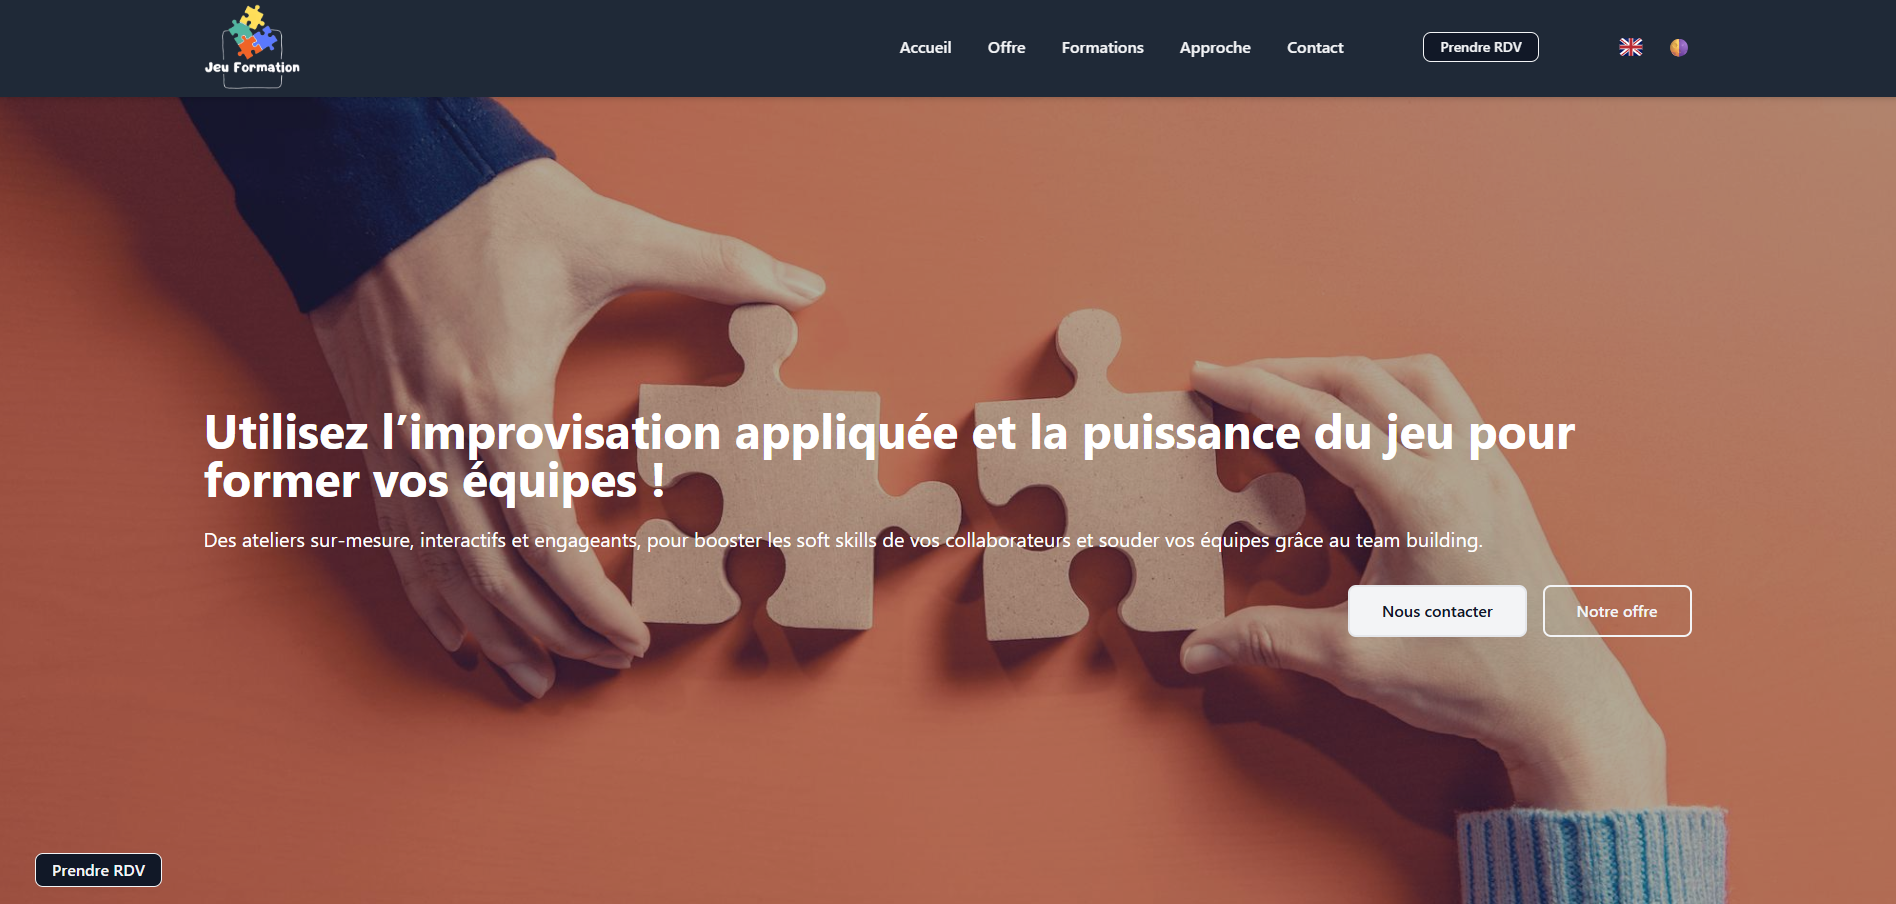
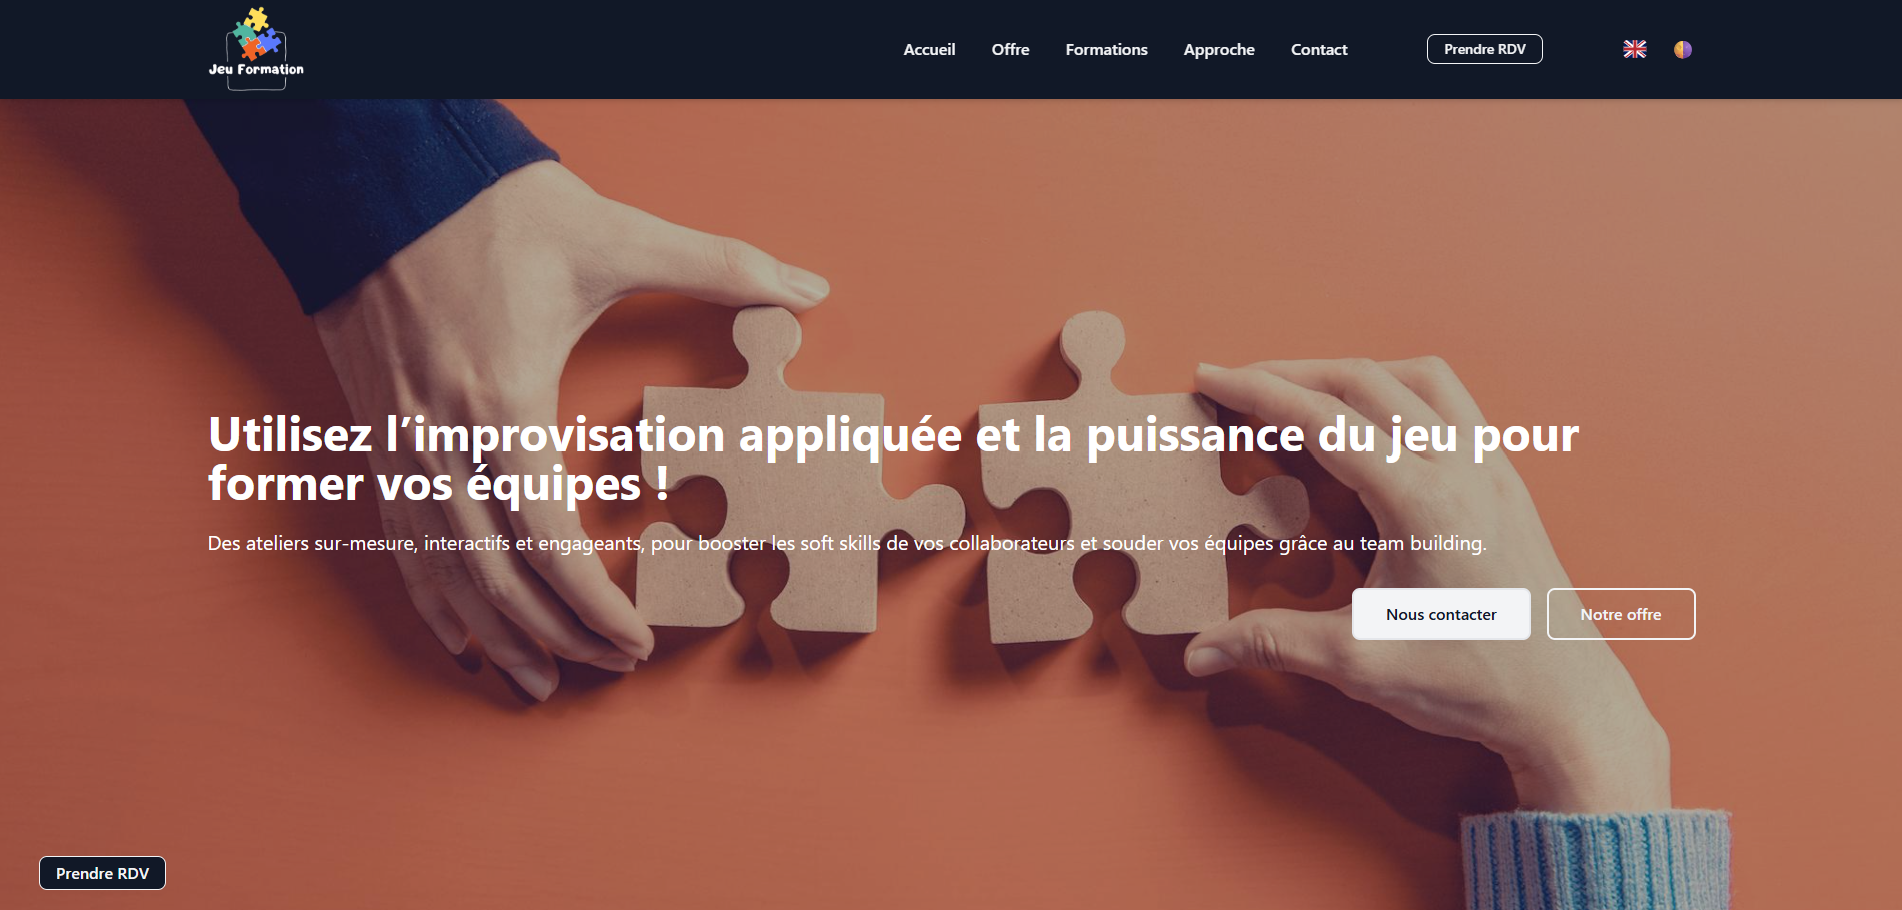
Petits ajustements : nav + img + fixed-btn + star

diff --git a/index-live.html b/index-live.html
@@ -20,7 +20,7 @@
       content="Développeur Web, Développeur Front-end, Programmation côté client, Gestion de projet web, Freelance, Robin Borreil, Accueil"
     />
     <meta name="author" content="Robin Borreil - RobdeV" />
-    <meta name="robots" content="index" />
+    <meta name="robots" content="noindex, nofollow" />
     <link rel="icon" href="img/logos/logo-carre_blanc-bgnoir.png" />
     <link rel="canonical" href="https://robinborreil.fr/" />
     <meta property="og:locale" content="fr_FR" />
@@ -93,7 +93,7 @@
           </li>
           <li class="menu-item"><a href="#services">Services</a></li>
           <li class="menu-item"><a href="#projects">Projets</a></li>
-          <li class="menu-item"><a href="#tarifs">Tarifs</a></li>
+          <li class="menu-item"><a href="#tarifs">Offres</a></li>
           <li class="menu-item"><a href="#about">À propos</a></li>
           <li class="menu-item">
             <a
@@ -111,7 +111,7 @@
             </a>
           </li>
           <li>
-            <a href="mailto:contact@robinborreil.fr" class="primary-btn"
+            <a href="#contact" class="primary-btn"
               >Contact</a
             >
           </li>
@@ -119,7 +119,7 @@
                     target="_blank" class="primary-btn">Parcours</a></li> -->
         </ul>
       </nav>
-      <section id="intro">
+      <section id="hero">
         <h1>Bonjour, je suis <span>Robin Borreil.</span></h1>
         <h2>
           Construisons ensemble votre projet web.
@@ -130,14 +130,16 @@
         </h2>
         <!-- <p>Rendez-moi visite sur <a href="https://www.linkedin.com/in/robin-borreil-201036197/">LinkedIn</a>.</p> -->
         <p class="fixed-btn">
-          <a href="mailto:contact@robinborreil.fr" class="primary-btn"
-            >Me Contacter</a
+          <a href="#contact" class="secondary-btn"
+            >
+            <span class="fas fa-envelope" aria-hidden="true"></span>
+              <span class="sr-only">Email</span>
+            </a
           >
         </p>
         <p class="flex">
           <a href="#projects" class="secondary-btn">Mes Projets</a>
-
-          <a href="#tarifs" class="primary-btn">Mes Tarifs</a>
+          <a href="#tarifs" class="primary-btn">Mes Offres</a>
         </p>
       </section>
     </header>
@@ -149,13 +151,13 @@
       <div class="container">
         <div class="title-group">
           <h2 class="title">Mes Services</h2>
-          <p class="subtitle">
+          <!-- <p class="subtitle">
             <strong>100% Green :</strong> Il est important pour moi de respecter
             les bonnes pratiques pour une tech durable et plus respectueuse de
             la planète. <br />
             <strong>100% Transparent :</strong> Ça veut dire ce que ça veut
             dire.
-          </p>
+          </p> -->
         </div>
 
         <div class="services-grid">
@@ -427,9 +429,9 @@
       <div class="container">
         <!-- Titre -->
         <div class="title-group">
-          <h2 class="title">Tarifs <span>*</span></h2>
+          <h2 class="title">Offres</h2>
           <p class="subtitle">
-            Des tarifs clairs pour un accompagnement sur mesure.
+            Des tarifs clairs <span class="star">*</span> pour un accompagnement sur mesure.
           </p>
         </div>
 
@@ -472,7 +474,7 @@
           <!-- Offre 3 — Package Basic -->
           <article class="tarif-card">
             <div class="tarif-head">
-              <h3>Package — Basic <span>**</span></h3>
+              <h3>Package — Basic <span class="star">**</span></h3>
             </div>
 
             <div class="package">
@@ -532,7 +534,7 @@
           <!-- Offre 6 — Package Premium -->
           <article class="tarif-card">
             <div class="tarif-head">
-              <h3>Package — Premium <span>**</span></h3>
+              <h3>Package — Premium <span class="star">**</span></h3>
             </div>
 
             <div class="package">
@@ -569,11 +571,10 @@
         <!-- Mentions -->
         <div class="tarifs-notes">
           <p class="star-display">
-            <span>*</span> Prix hors taxes. Les tarifs peuvent varier selon les
-            besoins spécifiques. TJM hors forfait : 600€ HT / jour.
+            <span class="star">*</span> Les tarifs sont affichés hors taxes et peuvent être amenés à changer sur des demandes spécifiques. TJM hors package : 600€ HT / jour.
           </p>
           <p class="star-display">
-            <span>**</span> Les offres promotionnelles évoluent régulièrement.
+            <span class="star">**</span> Les offres promotionnelles évoluent régulièrement.
             Le tarif appliqué est celui en vigueur au moment de la signature du
             devis. <br />
             Les réductions sur les forfaits de maintenance s'appliquent pendant
@@ -593,8 +594,7 @@
           <div class="title-group">
             <h2 class="title">Qui suis-je ?</h2>
             <p class="subtitle">
-              Hello World ! Je suis accro au sport, à la cuisine, au voyage, à
-              la nature et au WEB ! Tombé dans le code il y a 5 ans, j'y ai vu
+              Sport, cuisine, voyage, nature et WEB ! Tombé dans le code il y a 5 ans, j'y ai vu
               une immense opportunité de réintégrer au travail certains aspects
               de la liberté telle que je la vois : géographique, financière et
               organisationnelle. <br />

diff --git a/css/style.css b/css/style.css
@@ -342,9 +342,9 @@ nav .primary-btn {
   }
 }
 
-/* Intro styles */
+/* Hero styles */
 
-#intro {
+#hero {
   display: flex;
   flex-direction: column;
   justify-content: center;
@@ -354,26 +354,26 @@ nav .primary-btn {
   margin: 0 auto;
 }
 @media (min-width: 850px) {
-  #intro {
+  #hero {
     min-height: calc(100vh - 190px);
     padding: 5rem 1rem 4rem 1rem;
   }
 }
 @media (min-width: 1070px) {
-  #intro {
+  #hero {
     padding: 7.5rem 1rem 4rem 1rem;
   }
 }
 
-#intro h1 {
+#hero h1 {
   font-size: 1rem;
   line-height: 1.5;
 }
-#intro h1 {
+#hero h1 {
   font-family: var(--mono);
   letter-spacing: 0.2rem;
 }
-#intro h1 span {
+#hero h1 span {
   color: var(--tech-purple);
   display: inline;
   font-family: var(--sans);
@@ -381,12 +381,12 @@ nav .primary-btn {
   font-weight: 500;
   margin: 0;
 }
-#intro h2 {
+#hero h2 {
   font-size: 3.5rem;
   font-weight: normal;
   margin-top: 2rem;
 }
-#intro h2 span {
+#hero h2 span {
   color: var(--green-400);
   /* color: var(--green-400); */
   display: block;
@@ -394,13 +394,23 @@ nav .primary-btn {
   font-size: 1.5rem;
   margin-top: 6rem;
 }
-#intro p.fixed-btn {
+#hero .fixed-btn {
   position: fixed;
   bottom: 50px;
   left: 50px;
   z-index: 1;
 }
-#intro p.flex {
+#hero .fixed-btn .secondary-btn {
+  background: transparent;
+  border: 1px solid var(--green-500);
+  color: var(--green-500);
+  padding: 0rem 0.6rem;
+  border-radius: 0.3rem;
+  text-decoration: none;
+  font-family: var(--mono);
+  font-size: 2rem;
+}
+#hero p.flex {
   display: flex;
   gap: 75px;
   margin-top: 10%;
@@ -408,7 +418,7 @@ nav .primary-btn {
   margin-right: auto;
 }
 @media (min-width: 600px) {
-  #intro p.flex {
+  #hero p.flex {
     margin-right: 0;
   }
 }
@@ -771,12 +781,7 @@ nav .primary-btn {
   background: var(--base-800);
 }
 
-#tarifs h2 span,
-#tarifs h3 span {
-  color: var(--white);
-}
-
-/* CARD */
+/* Card */
 .tarif-list,
 .skill-list {
   list-style: none;
@@ -876,9 +881,10 @@ nav .primary-btn {
 }
 
 .star-display {
-  font-size: 1.1rem;
+  font-size: 1.15rem;
 }
-.star-display span {
+.star {
+  color: var(--tech-accent);
   font-size: 1.75rem;
   font-weight: 600;
 }
@@ -1127,9 +1133,6 @@ nav .primary-btn {
   border-color: var(--green-400);
 }
 
-
-
-
 /* FOOTER */
 
 footer {
@@ -1161,12 +1164,8 @@ footer ul {
 footer [class*="fa-"]:hover {
   color: var(--green-400);
 } */
- footer [class*="fa-"] {
-  background: linear-gradient(
-    135deg,
-    var(--tech-purple),
-    var(--green-400)
-  );
+footer [class*="fa-"] {
+  background: linear-gradient(135deg, var(--tech-purple), var(--green-400));
 
   -webkit-background-clip: text;
   -webkit-text-fill-color: transparent;
